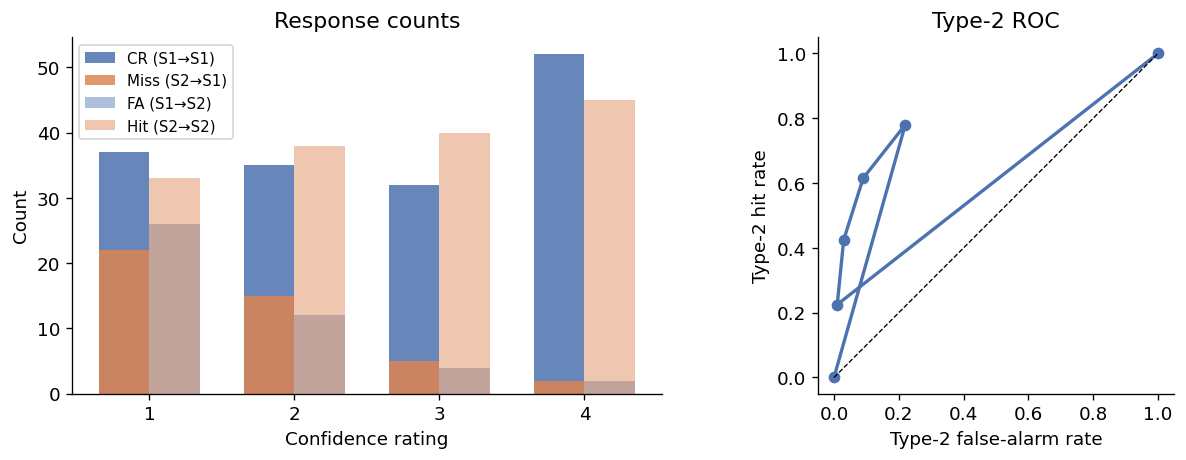
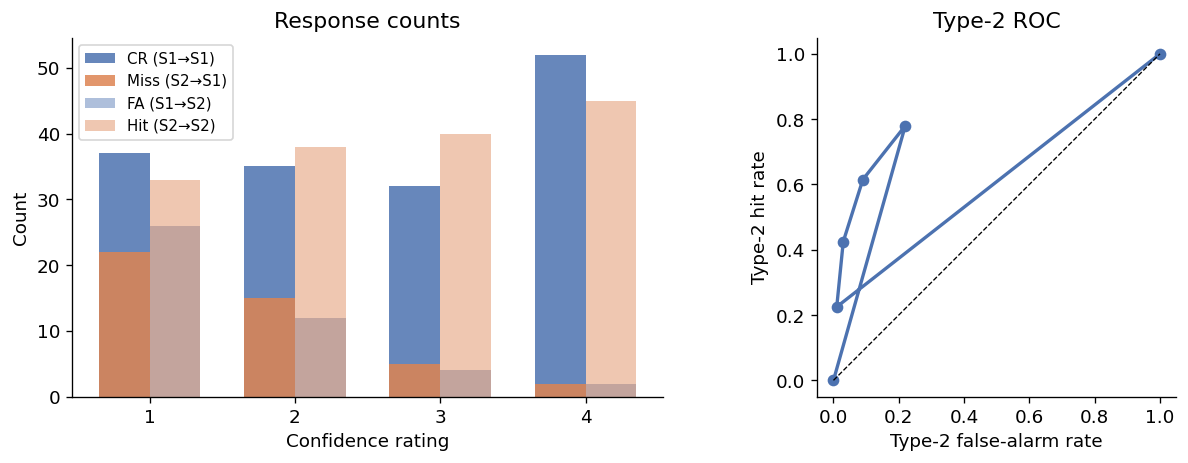
update

diff --git a/docs/usage.md b/docs/usage.md
@@ -19,11 +19,16 @@ All computation functions expect three parallel arrays of the same length, one r
 import numpy as np
 from metasignal import stdpy
 
-stim = np.array([0, 1, 0, 1] * 25)
-resp = np.array([0, 1, 1, 0] * 25)
-conf = np.array([1, 2, 2, 1] * 25)
+rng = np.random.default_rng(42)
+n, n_ratings = 200, 4
 
-results = stdpy.compute_all_measures(stim, resp, conf, n_ratings=2)
+stim = rng.choice([0, 1], n)
+resp = np.where(rng.random(n) < 0.78, stim, 1 - stim)   # 78% accuracy
+correct = stim == resp
+conf = np.where(correct, rng.integers(2, n_ratings + 1, n),
+                         rng.integers(1, n_ratings, n))   # higher conf when correct
+
+results = stdpy.compute_all_measures(stim, resp, conf, n_ratings=n_ratings)
 print(results)
 ```
 
@@ -64,13 +69,13 @@ print(f"d' = {dprime:.3f}, c = {c:.3f}")
 **Convert trials to response counts:**
 
 ```python
-nr_s1, nr_s2 = stdpy.trials_to_counts(stim, resp, conf, n_ratings=2)
+nr_s1, nr_s2 = stdpy.trials_to_counts(stim, resp, conf, n_ratings=n_ratings)
 ```
 
 **Fit meta-d' via MLE:**
 
 ```python
-nr_s1, nr_s2 = stdpy.trials_to_counts(stim, resp, conf, n_ratings=2)
+nr_s1, nr_s2 = stdpy.trials_to_counts(stim, resp, conf, n_ratings=n_ratings)
 result = stdpy.fit_meta_d_mle(nr_s1, nr_s2)
 print(f"meta-d' = {result['meta_da']:.3f}")
 print(f"M-ratio = {result['M_ratio']:.3f}")
@@ -88,8 +93,8 @@ dc        = stdpy.compute_delta_conf(nr_s1, nr_s2)
 **metaNoise and metaUncertainty:**
 
 ```python
-noise     = stdpy.compute_meta_noise(stim, resp, conf, n_ratings=2)
-uncert    = stdpy.compute_meta_uncertainty(stim, resp, conf, n_ratings=2)
+noise     = stdpy.compute_meta_noise(stim, resp, conf, n_ratings=n_ratings)
+uncert    = stdpy.compute_meta_uncertainty(stim, resp, conf, n_ratings=n_ratings)
 ```
 
 ## Statistical inference (`analysis`)
@@ -102,13 +107,17 @@ The `metasignal.analysis` sub-package provides tools for running inference over 
 import numpy as np
 from metasignal.analysis import bootstrap_measure
 
-stim = np.array([0, 1] * 50)
-resp = np.array([0, 1] * 50)
-conf = np.random.default_rng(0).integers(1, 3, 100)
+rng = np.random.default_rng(42)
+n, n_ratings = 200, 4
+stim = rng.choice([0, 1], n)
+resp = np.where(rng.random(n) < 0.78, stim, 1 - stim)
+correct = stim == resp
+conf = np.where(correct, rng.integers(2, n_ratings + 1, n),
+                         rng.integers(1, n_ratings, n))
 
 lo, hi = bootstrap_measure(
     stim, resp, conf,
-    n_ratings=2,
+    n_ratings=n_ratings,
     measure_index=5,   # M-ratio (index 5)
     n_boot=2000,
     ci=0.95,
@@ -150,7 +159,11 @@ print(summary["labels"])  # list of 20 measure names
 For quick exploratory use without writing Python:
 
 ```bash
-metasignal compute --stim "0,1,0,1" --resp "0,1,1,0" --conf "1,2,2,1" --n-ratings 2
+metasignal compute \
+  --stim "0,1,0,1,1,0,1,0,0,1" \
+  --resp "0,1,1,1,1,0,0,0,0,1" \
+  --conf "2,3,1,4,4,3,2,1,3,4" \
+  --n-ratings 4
 ```
 
 See [CLI Reference](cli.md) for the full argument list.

diff --git a/README.md b/README.md
@@ -25,20 +25,23 @@ pip install .
 import numpy as np
 from metasignal import stdpy
 
-# Sample trial data
-stim = np.array([0, 1, 0, 1] * 25)
-resp = np.array([0, 1, 1, 0] * 25)
-conf = np.array([1, 2, 2, 1] * 25)
+rng = np.random.default_rng(42)
+n, n_ratings = 200, 4
+stim = rng.choice([0, 1], n)
+resp = np.where(rng.random(n) < 0.78, stim, 1 - stim)   # 78% accuracy
+correct = stim == resp
+conf = np.where(correct, rng.integers(2, n_ratings + 1, n),
+                         rng.integers(1, n_ratings, n))   # higher conf when correct
 
 # Compute all 20 measures at once
-results = stdpy.compute_all_measures(stim, resp, conf, n_ratings=2)
+results = stdpy.compute_all_measures(stim, resp, conf, n_ratings=n_ratings)
 print(results)
 
 # Compute basic SDT
 dprime, c, _ = stdpy.compute_sdt_resp(stim, resp)
 
 # Fit meta-d' MLE
-nr_s1, nr_s2 = stdpy.trials_to_counts(stim, resp, conf, n_ratings=2)
+nr_s1, nr_s2 = stdpy.trials_to_counts(stim, resp, conf, n_ratings=n_ratings)
 meta = stdpy.fit_meta_d_mle(nr_s1, nr_s2)
 print(f"Meta-d' M-Ratio: {meta['M_ratio']}")
 ```
@@ -46,6 +49,10 @@ print(f"Meta-d' M-Ratio: {meta['M_ratio']}")
 ### CLI
 
 ```bash
-metasignal compute --stim "0,1,0,1" --resp "0,1,1,0" --conf "1,2,2,1" --n-ratings 2
+metasignal compute \
+  --stim "0,1,0,1,1,0,1,0,0,1" \
+  --resp "0,1,1,1,1,0,0,0,0,1" \
+  --conf "2,3,1,4,4,3,2,1,3,4" \
+  --n-ratings 4
 ```
 <!-- end docs-include-usage -->

diff --git a/docs/index.md b/docs/index.md
@@ -22,11 +22,15 @@ A single call to `compute_all_measures` returns 20 measures organised into four 
 import numpy as np
 from metasignal import stdpy
 
-stim = np.array([0, 1, 0, 1] * 25)
-resp = np.array([0, 1, 1, 0] * 25)
-conf = np.array([1, 2, 2, 1] * 25)
+rng = np.random.default_rng(42)
+n, n_ratings = 200, 4
+stim = rng.choice([0, 1], n)
+resp = np.where(rng.random(n) < 0.78, stim, 1 - stim)   # 78% accuracy
+correct = stim == resp
+conf = np.where(correct, rng.integers(2, n_ratings + 1, n),
+                         rng.integers(1, n_ratings, n))   # higher conf when correct
 
-results = stdpy.compute_all_measures(stim, resp, conf, n_ratings=2)
+results = stdpy.compute_all_measures(stim, resp, conf, n_ratings=n_ratings)
 print(results)  # array of 20 float values
 ```
 

diff --git a/docs/installation.md b/docs/installation.md
@@ -36,9 +36,9 @@ nox -s dev
 import metasignal
 import numpy as np
 
-stim = np.array([0, 1, 0, 1] * 25)
-resp = np.array([0, 1, 1, 0] * 25)
-conf = np.array([1, 2, 2, 1] * 25)
+stim = np.array([0, 1] * 50)                    # 100 trials, equal S1/S2
+resp = np.array([0, 1] * 40 + [1, 0] * 10)     # 80% accuracy
+conf = np.array([2, 2] * 40 + [1, 1] * 10)     # high conf when correct
 
 results = metasignal.stdpy.compute_all_measures(stim, resp, conf, n_ratings=2)
 print(results.shape)  # (20,)
